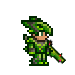
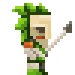
Player's up animation is done

diff --git a/Game/VS_Project/TerraSkweek/TerraSkweek/Player.cpp b/Game/VS_Project/TerraSkweek/TerraSkweek/Player.cpp
@@ -8,7 +8,6 @@ void Player::LoadAllTextures()
 	LoadGLTextures("idle", "Art/player/player_idle_01.png");
 	LoadGLTextures("idle", "Art/player/player_idle_02.png");
 	LoadGLTextures("idle", "Art/player/player_idle_03.png");
-	LoadGLTextures("idle", "Art/player/player_idle_04.png");
 	LoadGLTextures("left", "Art/player/player_left_01.png");
 	LoadGLTextures("left", "Art/player/player_left_02.png");
 	LoadGLTextures("left", "Art/player/player_left_03.png");
@@ -16,34 +15,38 @@ void Player::LoadAllTextures()
 	LoadGLTextures("left", "Art/player/player_left_05.png");
 	LoadGLTextures("left", "Art/player/player_left_06.png");
 	LoadGLTextures("left", "Art/player/player_left_07.png");
-	LoadGLTextures("up", "Art/player/player_left_01.png");
-	LoadGLTextures("up", "Art/player/player_left_02.png");
-	LoadGLTextures("up", "Art/player/player_left_03.png");
-	LoadGLTextures("up", "Art/player/player_left_04.png");
+	LoadGLTextures("left", "Art/player/player_left_07.png");
+	LoadGLTextures("up", "Art/player/player_up_01.png");
+	LoadGLTextures("up", "Art/player/player_up_02.png");
+	LoadGLTextures("up", "Art/player/player_up_03.png");
+	LoadGLTextures("up", "Art/player/player_up_04.png");
+	LoadGLTextures("up", "Art/player/player_up_05.png");
+	LoadGLTextures("up", "Art/player/player_up_06.png");
+	LoadGLTextures("up", "Art/player/player_up_07.png");
+	LoadGLTextures("up", "Art/player/player_up_08.png");
+	LoadGLTextures("up", "Art/player/player_up_08.png");
 	LoadGLTextures("down", "Art/player/player_left_01.png");
 	LoadGLTextures("down", "Art/player/player_left_02.png");
 	LoadGLTextures("down", "Art/player/player_left_03.png");
 	LoadGLTextures("down", "Art/player/player_left_04.png");
 	LoadGLTextures("down", "Art/player/player_left_05.png");
+	LoadGLTextures("down", "Art/player/player_left_05.png");
 	LoadGLTextures("fire_idle", "Art/player/player_fire_01.png");
 	LoadGLTextures("fire_idle", "Art/player/player_fire_02.png");
-	LoadGLTextures("fire_idle", "Art/player/player_fire_03.png");
-	LoadGLTextures("fire_idle", "Art/player/player_fire_04.png");
+	LoadGLTextures("fire_idle", "Art/player/player_fire_02.png");
 	LoadGLTextures("fire_left", "Art/player/player_fire_01.png");
 	LoadGLTextures("fire_left", "Art/player/player_fire_02.png");
-	LoadGLTextures("fire_left", "Art/player/player_fire_03.png");
-	LoadGLTextures("fire_left", "Art/player/player_fire_04.png");
+	LoadGLTextures("fire_left", "Art/player/player_fire_02.png");
 	LoadGLTextures("fire_up", "Art/player/player_fire_01.png");
 	LoadGLTextures("fire_up", "Art/player/player_fire_02.png");
-	LoadGLTextures("fire_up", "Art/player/player_fire_03.png");
-	LoadGLTextures("fire_up", "Art/player/player_fire_04.png");
+	LoadGLTextures("fire_up", "Art/player/player_fire_02.png");
 	LoadGLTextures("fire_down", "Art/player/player_fire_01.png");
 	LoadGLTextures("fire_down", "Art/player/player_fire_02.png");
-	LoadGLTextures("fire_down", "Art/player/player_fire_03.png");
-	LoadGLTextures("fire_down", "Art/player/player_fire_04.png");
+	LoadGLTextures("fire_down", "Art/player/player_fire_02.png");
 	LoadGLTextures("p_UI", "Art/player/Hornet&Hero_01.png");
 	LoadGLTextures("p_UI", "Art/player/Hornet&Hero_02.png");
 	LoadGLTextures("p_UI", "Art/player/Hornet&Hero_03.png");
+	LoadGLTextures("p_UI", "Art/player/Hornet&Hero_04.png");
 	LoadGLTextures("p_UI", "Art/player/Hornet&Hero_04.png");
 
 }
@@ -210,15 +213,15 @@ void Player::Draw(bool a)
 	m_mouseMode = !a;
 	//cout << m_life << endl;
 
-	//int vitesse = 100 * (left.size());
-	//currentFrame = (currentFrame + 1) % vitesse;
+	int vitesse = 50 * (left.size());
+	currentFrame = (currentFrame + 1) % vitesse;
 	//unsigned int frame = currentFrame * (left.size()) / vitesse;
 
 
 	if (m_mouseMode)
 	{
 
-		int vitesse = 8;
+		vitesse = 30;
 		currentFrame = (currentFrame + 1) % vitesse;
 		unsigned int frame = currentFrame * (p_UI.size()) / vitesse;
 
@@ -250,9 +253,7 @@ void Player::Draw(bool a)
 
 	else if (!m_mouseMode)
 	{
-		int vitesse = 100 * (left.size());
-		currentFrame = (currentFrame + 1) % vitesse;
-		unsigned int frame = currentFrame * (left.size()) / vitesse;
+		unsigned int frame;
 		
 		if (!m_firing && m_moving)
 		{
@@ -598,6 +599,8 @@ void Player::Draw(bool a)
 
 		else if (m_firing)
 		{
+			vitesse = 150;
+
 			if ((m_life <= 150 && m_life >= 50))
 			{
 				switch (m_dir)
@@ -626,7 +629,7 @@ void Player::Draw(bool a)
 					glDisable(GL_TEXTURE_2D);
 					glPopMatrix();
 
-					if (frame >= fire_idle.size() - 1)
+					if (frame >= fire_idle.size()-1)
 						m_firing = false;
 
 					break;
@@ -655,7 +658,7 @@ void Player::Draw(bool a)
 					glDisable(GL_TEXTURE_2D);
 					glPopMatrix();
 
-					if (frame >= fire_left.size() - 1)
+					if (frame >= (fire_left.size()-1))
 						m_firing = false;
 
 					break;
@@ -672,13 +675,13 @@ void Player::Draw(bool a)
 					glBindTexture(GL_TEXTURE_2D, fire_left[frame]);
 					glBegin(GL_QUADS);
 					glColor4d(1.0, 1.0, 1.0, opacity);
-					glTexCoord2f(1.0f, 1.0f);
-					glVertex2d(m_pos.x - m_spriteSize, m_pos.y - m_spriteSize);
 					glTexCoord2f(0.0f, 1.0f);
+					glVertex2d(m_pos.x - m_spriteSize, m_pos.y - m_spriteSize);
+					glTexCoord2f(1.0f, 1.0f);
 					glVertex2d(m_pos.x +  m_spriteSize, m_pos.y - m_spriteSize);
-					glTexCoord2f(0.0f, 0.0f);
-					glVertex2d(m_pos.x +  m_spriteSize, m_pos.y +  m_spriteSize);
 					glTexCoord2f(1.0f, 0.0f);
+					glVertex2d(m_pos.x +  m_spriteSize, m_pos.y +  m_spriteSize);
+					glTexCoord2f(0.0f, 0.0f);
 					glVertex2d(m_pos.x - m_spriteSize, m_pos.y +  m_spriteSize);
 					glEnd();
 					glDisable(GL_TEXTURE_2D);
@@ -902,6 +905,7 @@ void Player::Draw(bool a)
 			}
 		}
 		else if (!m_moving) { // not moving, idle
+
 			if (m_life <= 150 && m_life >= 50) {
 				switch (m_dir)
 				{
@@ -1095,7 +1099,6 @@ void Player::Draw(bool a)
 			}
 
 		}
-		
 	}
 	
 }

diff --git a/Game/VS_Project/TerraSkweek/TerraSkweek/Enemy.cpp b/Game/VS_Project/TerraSkweek/TerraSkweek/Enemy.cpp
@@ -322,9 +322,9 @@ void Enemy::Draw()
 			glBegin(GL_QUADS);
 			glColor3d(1.0, 1.0, 1.0);
 			glTexCoord2f(0.0f, 1.0f); glVertex2d(m_pos.x - m_spriteSize, m_pos.y - m_spriteSize);
-			glTexCoord2f(1.0f, 1.0f); glVertex2d(m_pos.x +  m_spriteSize, m_pos.y - m_spriteSize);
-			glTexCoord2f(1.0f, 0.0f); glVertex2d(m_pos.x +  m_spriteSize, m_pos.y +  m_spriteSize);
-			glTexCoord2f(0.0f, 0.0f); glVertex2d(m_pos.x - m_spriteSize, m_pos.y +  m_spriteSize);
+			glTexCoord2f(1.0f, 1.0f); glVertex2d(m_pos.x + m_spriteSize, m_pos.y - m_spriteSize);
+			glTexCoord2f(1.0f, 0.0f); glVertex2d(m_pos.x + m_spriteSize, m_pos.y + m_spriteSize);
+			glTexCoord2f(0.0f, 0.0f); glVertex2d(m_pos.x - m_spriteSize, m_pos.y + m_spriteSize);
 
 			glEnd();
 			glDisable(GL_TEXTURE_2D);
@@ -346,9 +346,9 @@ void Enemy::Draw()
 			glColor3d(1.0, 1.0, 1.0);
 
 			glTexCoord2f(0.0f, 1.0f); glVertex2d(m_pos.x - m_spriteSize, m_pos.y - m_spriteSize);
-			glTexCoord2f(1.0f, 1.0f); glVertex2d(m_pos.x +  m_spriteSize, m_pos.y - m_spriteSize);
-			glTexCoord2f(1.0f, 0.0f); glVertex2d(m_pos.x +  m_spriteSize, m_pos.y +  m_spriteSize);
-			glTexCoord2f(0.0f, 0.0f); glVertex2d(m_pos.x - m_spriteSize, m_pos.y +  m_spriteSize);
+			glTexCoord2f(1.0f, 1.0f); glVertex2d(m_pos.x + m_spriteSize, m_pos.y - m_spriteSize);
+			glTexCoord2f(1.0f, 0.0f); glVertex2d(m_pos.x + m_spriteSize, m_pos.y + m_spriteSize);
+			glTexCoord2f(0.0f, 0.0f); glVertex2d(m_pos.x - m_spriteSize, m_pos.y + m_spriteSize);
 
 			glEnd();
 			glDisable(GL_TEXTURE_2D);
@@ -430,21 +430,6 @@ void Enemy::Draw()
 		}
 		
 	}
-
-/*	if (afraid == false)
-	{
-		glPushMatrix();
-		glBegin(GL_QUADS);
-
-		glColor3d(0.0, 0.0, 0.0); glVertex2d(m_pos.x - m_spriteSize, m_pos.y - m_spriteSize);
-		glColor3d(0.0, 0.0, 0.0); glVertex2d(m_pos.x + 2*m_spriteSize, m_pos.y - m_spriteSize);
-		glColor3d(0.0, 0.0, 0.0); glVertex2d(m_pos.x + 2* m_spriteSize, m_pos.y + 2* m_spriteSize);
-		glColor3d(0.0, 0.0, 0.0); glVertex2d(m_pos.x - m_spriteSize, m_pos.y + 2* m_spriteSize);
-
-		glEnd();
-		glPopMatrix();
-		glutPostRedisplay();
-	}*/
 }
 
 void Enemy::SetFreeze(bool a)

diff --git a/Game/VS_Project/TerraSkweek/TerraSkweek/Main.cpp b/Game/VS_Project/TerraSkweek/TerraSkweek/Main.cpp
@@ -556,7 +556,6 @@ void DrawLevel() {
 	if (inGame)
 	{
 		// Translate Map
-		//glTranslatef(-player.GetPos().x + 12, -player.GetPos().y + 8, 0);
 		glTranslatef(-player.GetPos().x + (windowWidth / 2), -player.GetPos().y + (windowHeight / 2), 0);
 
 		// Draw map
@@ -584,12 +583,7 @@ void DrawLevel() {
 			lvl.DrawUpCase();
 		}
 
-
-
-
-
-
-
+		
 		glLoadIdentity();
 		glutSwapBuffers();
 		glPopMatrix();
@@ -622,6 +616,7 @@ void Display() {
 	glClear(GL_COLOR_BUFFER_BIT);
 	glMatrixMode(GL_MODELVIEW);
 	InterfaceArduino();
+	cout << "le joueur tire : " << player.IsFiring() << endl;
 	DrawLevel(); // Affiche le niveau
 	glFlush();		//A remplacer par glutSwapBuffers.
 //	glutSwapBuffers();

diff --git a/Game/VS_Project/TerraSkweek/TerraSkweek/Entity.cpp b/Game/VS_Project/TerraSkweek/TerraSkweek/Entity.cpp
@@ -79,6 +79,7 @@ Position Entity::GetPos()
 void Entity::Attack()
 {
 	m_firing = true;
+	currentFrame = 0;
 }
 
 //void Entity::Death()
